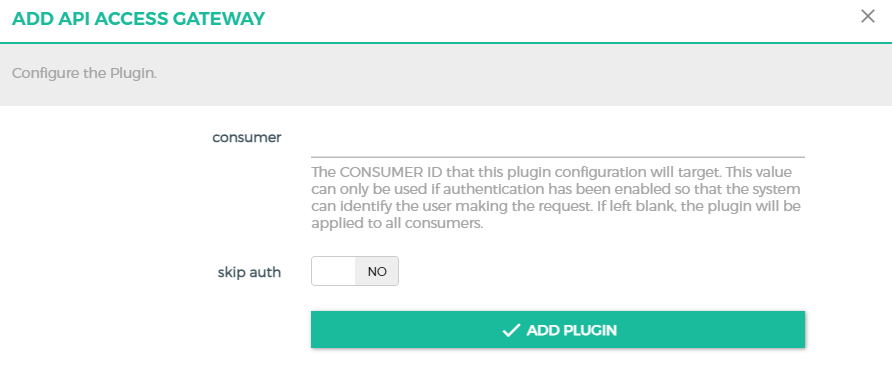
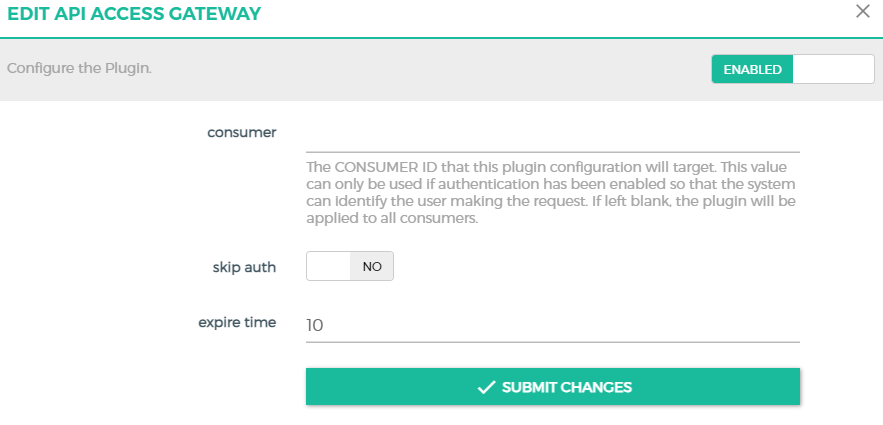
kong redis

diff --git a/README.md b/README.md
@@ -44,7 +44,7 @@ docker run --rm \
 4. 启动kong
 
 ```
-docker run -d --name kong \
+docker run -it -d --name kong \
      --network=kong-net \
      -e "KONG_DATABASE=postgres" \
      -e "KONG_PG_HOST=kong-database" \
@@ -64,8 +64,9 @@ docker run -d --name kong \
      -p 127.0.0.1:8444:8444 \
      kong:latest
 
+// -it参数表示伪终端，-d参数表示后台运行
 // D:\\kong-gateway 修改为本地路径
-// docker run -d --name kong --network=kong-net -e "KONG_DATABASE=postgres" -e "KONG_PG_HOST=kong-database" -e "KONG_PG_USER=kong" -e "KONG_PG_PASSWORD=kong" -e "KONG_PROXY_ACCESS_LOG=/dev/stdout" -e "KONG_ADMIN_ACCESS_LOG=/dev/stdout" -e "KONG_PROXY_ERROR_LOG=/dev/stderr" -e "KONG_ADMIN_ERROR_LOG=/dev/stderr" -e "KONG_ADMIN_LISTEN=0.0.0.0:8001, 0.0.0.0:8444 ssl" --env "KONG_PLUGINS=bundled,api-access-gateway" --env "KONG_LUA_PACKAGE_PATH=./?.lua;./?/init.lua;/data/kong/?.lua;" -v D:\\kong-gateway:/data/kong -p 8000:8000 -p 8443:8443 -p 127.0.0.1:8001:8001 -p 127.0.0.1:8444:8444 kong:latest
+// docker run -it -d --name kong --network=kong-net -e "KONG_DATABASE=postgres" -e "KONG_PG_HOST=kong-database" -e "KONG_PG_USER=kong" -e "KONG_PG_PASSWORD=kong" -e "KONG_PROXY_ACCESS_LOG=/dev/stdout" -e "KONG_ADMIN_ACCESS_LOG=/dev/stdout" -e "KONG_PROXY_ERROR_LOG=/dev/stderr" -e "KONG_ADMIN_ERROR_LOG=/dev/stderr" -e "KONG_ADMIN_LISTEN=0.0.0.0:8001, 0.0.0.0:8444 ssl" --env "KONG_PLUGINS=bundled,api-access-gateway" --env "KONG_LUA_PACKAGE_PATH=./?.lua;./?/init.lua;/data/kong/?.lua;" -v D:\\kong-gateway:/data/kong -p 8000:8000 -p 8443:8443 -p 127.0.0.1:8001:8001 -p 127.0.0.1:8444:8444 kong:latest
 ```
 访问：http://localhost:8001/
 
@@ -151,38 +152,42 @@ function CustomHandler:access(config)
     -- Implement logic for the rewrite phase here (http)
     kong.log("access")
 
-    if config.skip_auth then
-        local body = "{\"Code\":\"200\",\"Msg\":\"skip_auth = false\"}"
-        kong.response.exit(200, body, { ["Content-Type"] = "application/json; charset=utf-8" })
-        return
+    local query = kong.request.get_query()
+
+    if not config.skip_auth then
+        if query["token"] ~= "tencent" then
+            return kong.response.exit(200, { code = 400, err = "token error!" })
+        end
     end
 
-    local query_secret = kong.request.get_query_arg("secret")
-    local secret = global_config.secret
-    if query_secret == secret then
-        local body = "{\"Code\":\"200\",\"Msg\":\"skip_auth = true\"}"
-        kong.response.exit(200, body, { ["Content-Type"] = "application/json; charset=utf-8" })
-        return
+    local red = redis:new(global_config.opts)
+    if query["lock"] then
+        -- NX SET if Not eXists
+        -- EX 过期时间，seconds
+        -- 成功：ok，失败：nil
+        local ok, err = red:set("lock", 1, "NX", "EX", config.expire_time or 10)
+        kong.log(ok, err)
+        if err then
+            return kong.response.exit(200, { code = 400, err = err })
+        end
+        if not ok then
+            return kong.response.exit(200, { code = 400, data = "already lock." })
+        end
     end
-
-    local body = "{\"ErrorCode\":\"50000\",\"ErrorMsg\":\"密钥错误！\"}"
-    kong.response.exit(200, body, { ["Content-Type"] = "application/json; charset=utf-8" })
+    return kong.response.exit(200, { code = 200, err = "ok..." })
 end
 ```
 
 - skip_auth = false
+- expire_time = 10
 
 ![](docs/test-1.png)
 
-![](docs/test-1-1.png)
-
-- skip_auth = true
-
 ![](docs/test-2.png)
 
-![](docs/test-2-1.png)
+![](docs/test-3.png)
 
-![](docs/test-2-2.png)
+![](docs/test-4.png)
 
 ## 插件开发
 
